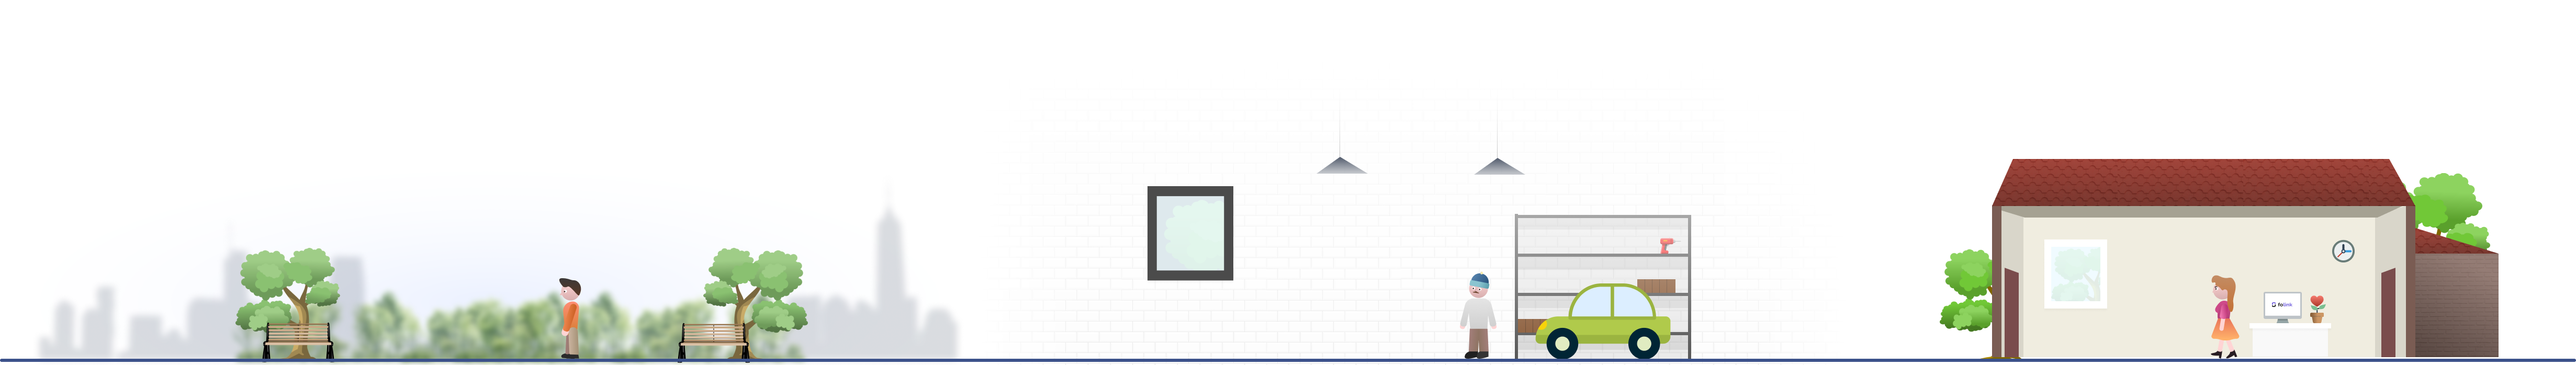
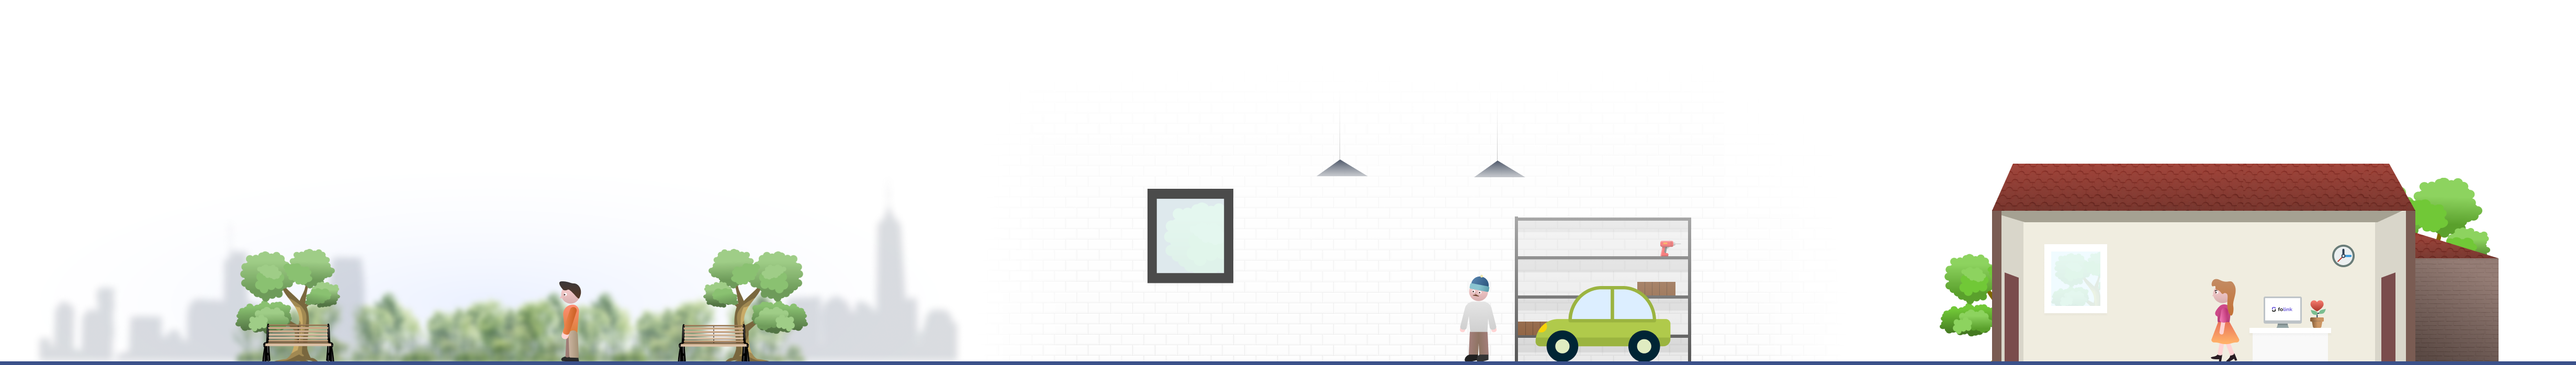
init: animate

diff --git a/scss/partials/_section-how-works.scss b/scss/partials/_section-how-works.scss
@@ -1,6 +1,6 @@
 .section-how-works {
   text-align: center;
-  padding-bottom: 356px;
+  padding-bottom: 400px;
   overflow: hidden;
   position: relative;
   @include media-breakpoint-up(md) {
